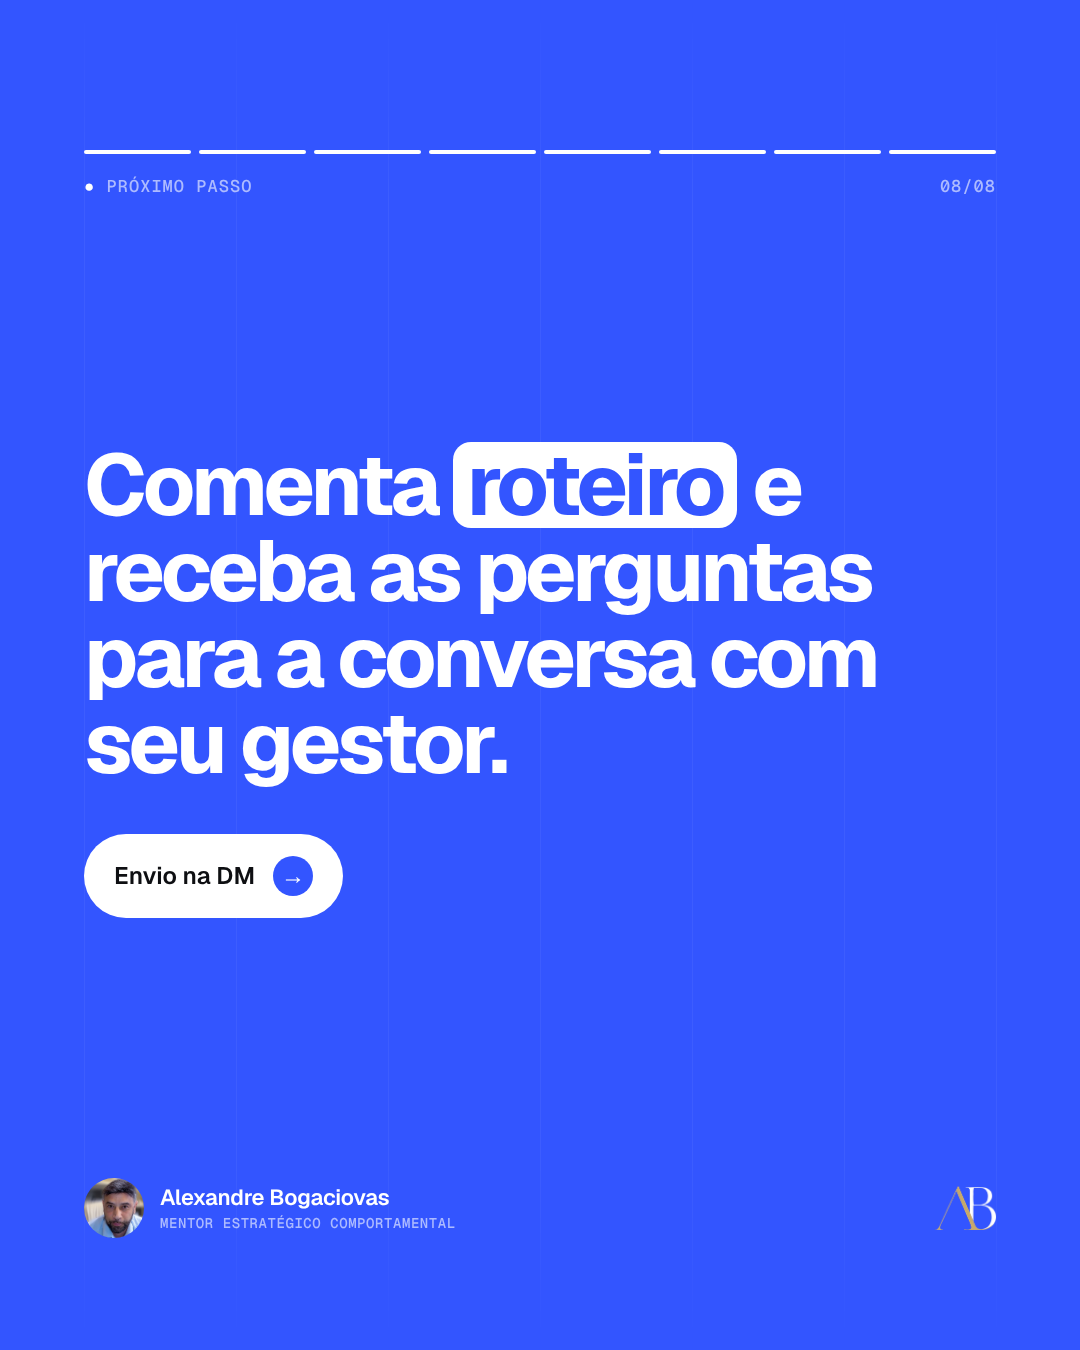
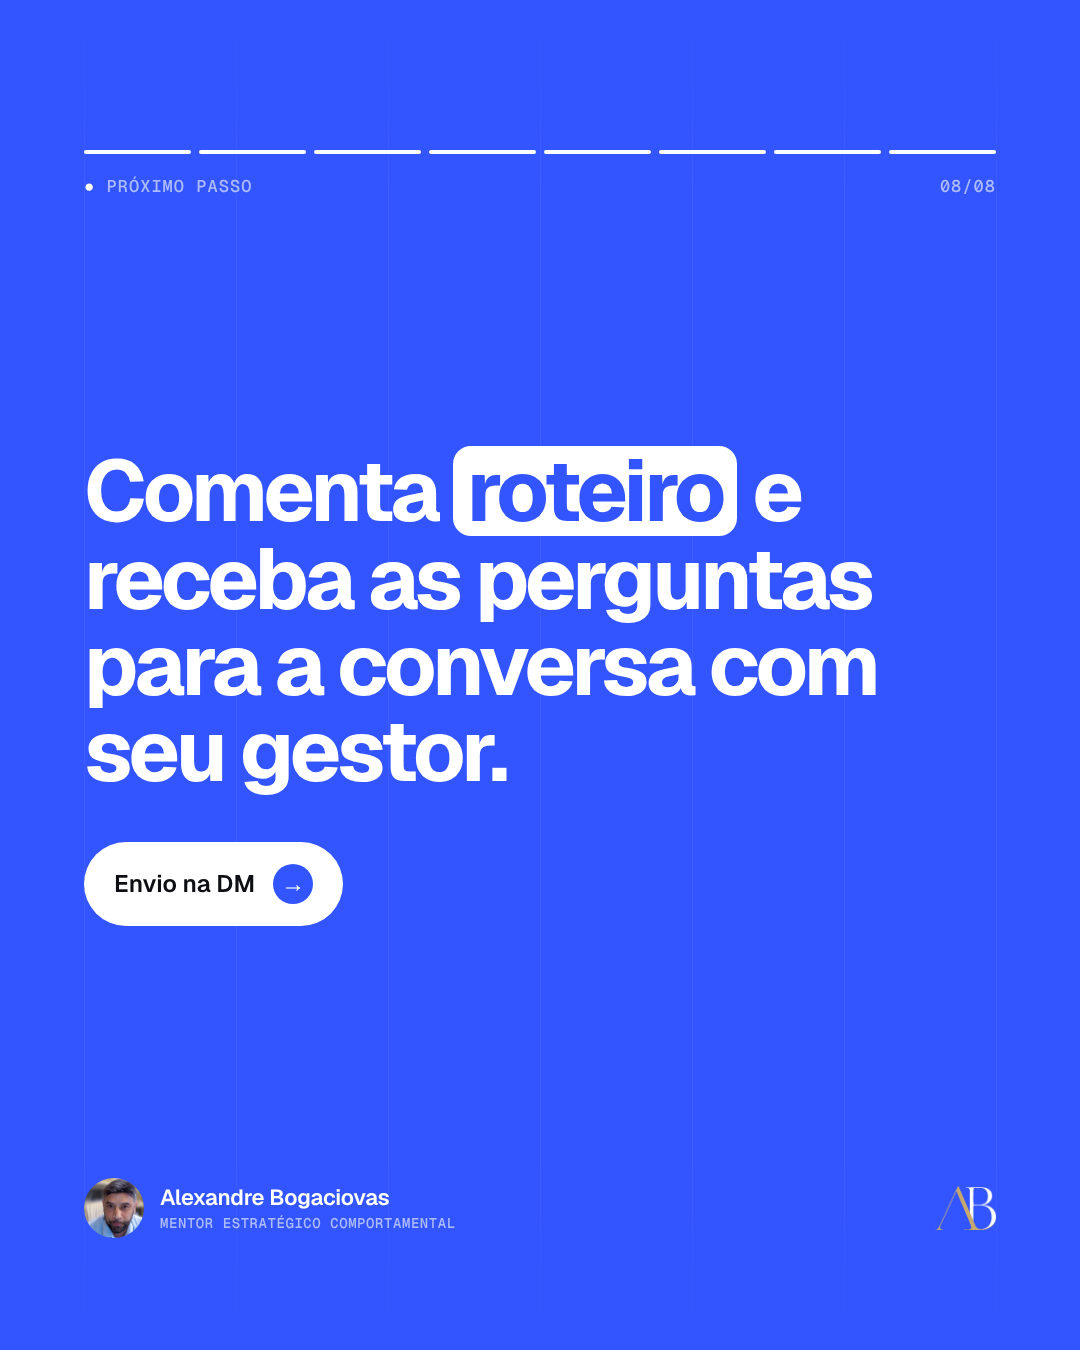
Capa moderna sem barra de progresso e foto mais baixa (cabeça livre do selo)
Claude-Session: https://claude.ai/code/session_01XJes5DVhURtV4jnmTZCFoF

Changed region(s): [[0.0611, 0.3111, 0.825, 0.6844]]

diff --git a/.claude/skills/carrossel-skills-gestao/templates/moderno.html b/.claude/skills/carrossel-skills-gestao/templates/moderno.html
@@ -78,8 +78,8 @@ body{background:#666;font-family:Geist,Inter,sans-serif;-webkit-font-smoothing:a
 
 /* ---------- CAPA ---------- */
 .capa{background:var(--dark);color:#fff}
-.capa .foto{position:absolute;right:0;top:0;width:100%;height:100%;object-fit:cover}
-.capa .shade{position:absolute;inset:0;background:linear-gradient(180deg,rgba(15,17,21,.55) 0%,rgba(15,17,21,0) 20%,rgba(15,17,21,0) 38%,rgba(15,17,21,.85) 62%,#0F1115 82%)}
+.capa .foto{position:absolute;right:0;top:0;width:100%;height:100%;object-fit:cover;-webkit-mask:linear-gradient(transparent 0,#000 140px)}
+.capa .shade{position:absolute;inset:0;background:linear-gradient(180deg,rgba(15,17,21,0) 0%,rgba(15,17,21,0) 50%,rgba(15,17,21,.8) 66%,#0F1115 80%)}
 .capa .topo{position:absolute;left:var(--pad);right:var(--pad);top:186px;display:flex;justify-content:space-between;align-items:flex-start;z-index:3}
 .capa .chip{display:inline-flex;align-items:center;gap:10px;background:rgba(255,255,255,.1);border:1px solid rgba(255,255,255,.18);backdrop-filter:blur(10px);
   border-radius:40px;padding:12px 20px;font:500 18px/1 Geist}
@@ -229,13 +229,11 @@ function footer(a,s){const logo=(s.estilo==='escuro'||s.estilo==='azul')?a.logo_
   ${logo?`<img class="logo" src="${logo}">`:''}</div>`}
 /* ---- variações (padrões B, C, D) ---- */
 function capaTipo(s,a,i,n){return `<section class="slide capa-tipo ${s.estilo||'azul'}">
-  ${prog(i,n)}
   <div class="topo"><div class="chip"><i></i>${esc(a.nome)} <span>· ${esc(a.subtitulo)}</span></div>${a.logo_claro?`<img class="logo" src="${a.logo_claro}">`:''}</div>
   <div class="bloco">${s.kicker?`<div class="tag">${s.kicker}</div>`:''}<h1>${s.titulo}</h1>
   ${s.subtitulo?`<p class="sub">${s.subtitulo}</p>`:''}
   <div class="rodape"><span class="autor">${a.avatar?`<img src="${a.avatar}">`:''}${s.swipe||'Deslize'}</span><span class="seta">→</span></div></div></section>`}
 function capaSplit(s,a,i,n){return `<section class="slide capa-split">
-  ${prog(i,n)}
   <div class="moldura"><img class="foto" src="${s.foto}" style="object-position:${s.foco||'center'};${s.pb?'filter:grayscale(1) contrast(1.05)':''}">
     <div class="chip"><i></i>${esc(a.nome)} <span>· ${esc(a.subtitulo)}</span></div>
     ${a.logo_claro?`<img class="logo" src="${a.logo_claro}">`:''}</div>
@@ -256,8 +254,7 @@ function autorCta(s,a,i,n){return `<section class="slide autor-cta ${s.estilo||'
   <div class="footer">${(a.logo_claro)?`<img class="logo" src="${a.logo_claro}">`:''}</div></section>`}
 const TIPOS={capa:(s,a,i,n)=>s.variante==='tipografica'?capaTipo(s,a,i,n):s.variante==='split'?capaSplit(s,a,i,n):capa(s,a,i,n),frase,mito,autor:autorCta};
 function capa(s,a,i,n){return `<section class="slide capa">
-  ${s.foto?`<img class="foto" src="${s.foto}" style="object-position:${s.foco||'center'}">`:''}<div class="shade"></div>
-  ${prog(i,n)}
+  ${s.foto?`<img class="foto" src="${s.foto}" style="object-position:${s.foco||'center top'};top:${s.desce??150}px">`:''}<div class="shade"></div>
   <div class="topo"><div class="chip"><i></i>${esc(a.nome)} <span>· ${esc(a.subtitulo)}</span></div>${a.logo_claro?`<img class="logo" src="${a.logo_claro}">`:''}</div>
   <div class="bloco">${s.kicker?`<div class="tag">${s.kicker}</div>`:''}<h1>${s.titulo}</h1>
   <div class="rodape"><span>${s.swipe||'Deslize para ler'}</span><span class="seta">→</span></div></div></section>`}
